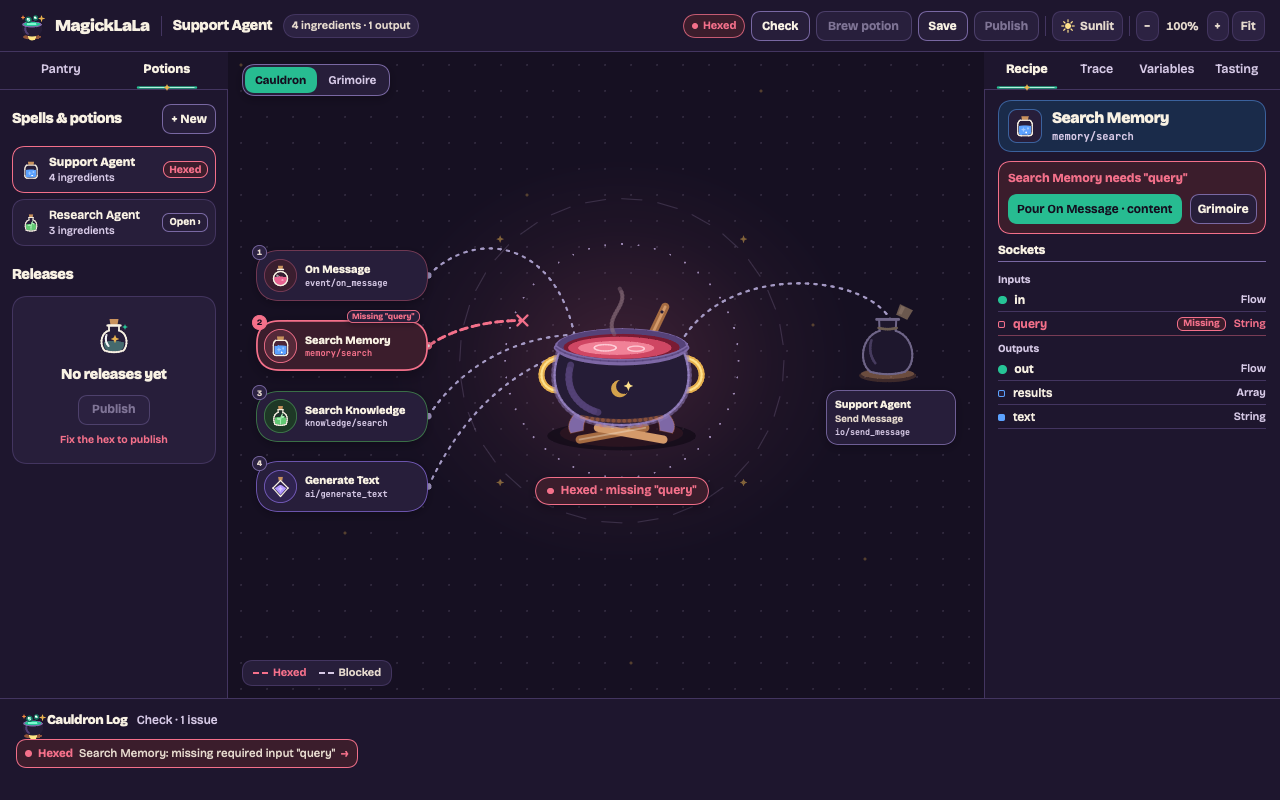
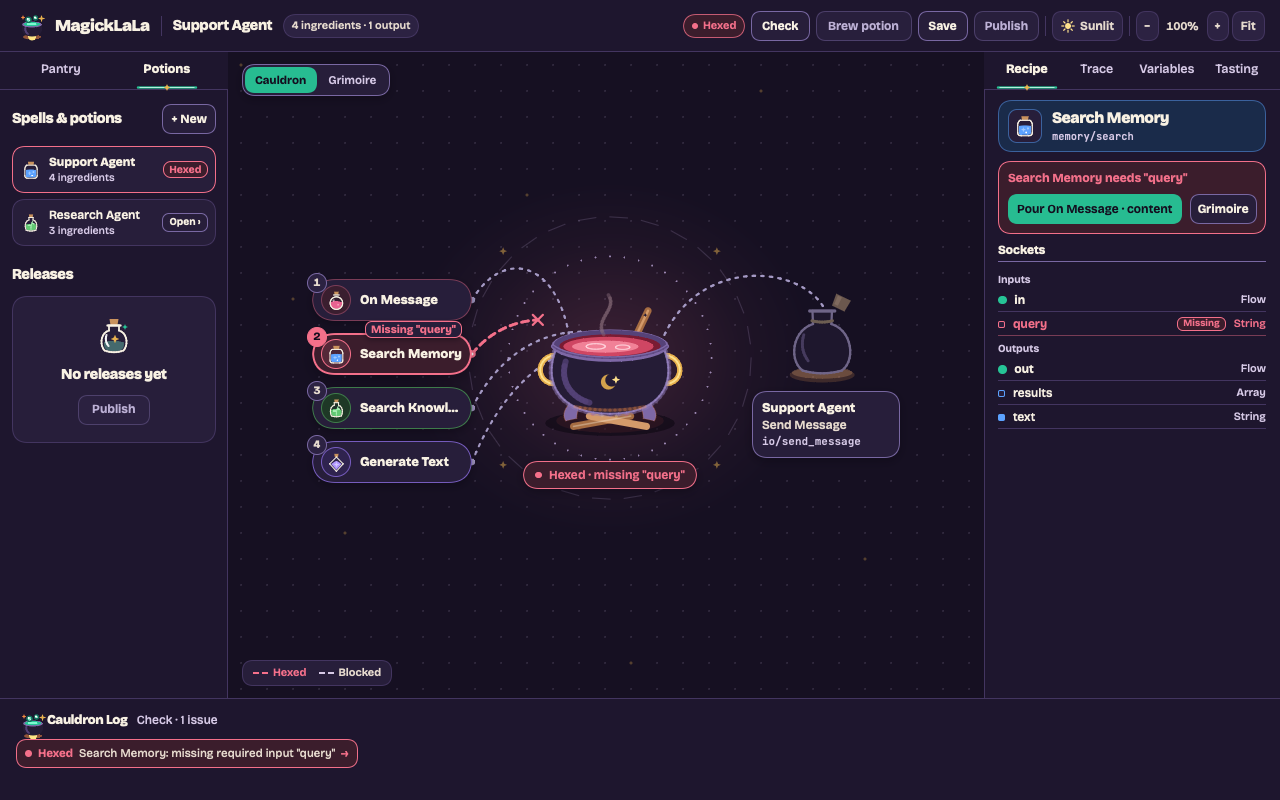
fix(studio): pantry footer counts only ingredients in the pot; docs/studio adds the dozen-ingredient 960x640 and set-aside screens and is regenerated from this head

diff --git a/crates/magicklala-studio/examples/studio_probe.rs b/crates/magicklala-studio/examples/studio_probe.rs
@@ -1485,6 +1485,15 @@ fn capture_surfaces(out_dir: &Path) -> Result<serde_json::Value, String> {
     branch_cauldron.canvas.fit(viewport);
     save("16-branching-cauldron-1280x800.png", branch_cauldron)?;
 
+    let mut crowded = StudioApp::with_spell(dozen_ingredient_spell(), registry_specs());
+    crowded.size = (960.0, 640.0);
+    save("17-dozen-ingredients-960x640.png", crowded)?;
+
+    let mut aside = base_desktop();
+    aside.toss(magicklala_canvas::Toss::Aside(NodeId::from("recall")));
+    aside.undo_banner = None;
+    save("18-set-aside-1280x800.png", aside)?;
+
     Ok(json!({ "surfaces": files }))
 }
 

diff --git a/crates/magicklala-studio/src/view.rs b/crates/magicklala-studio/src/view.rs
@@ -728,7 +728,7 @@ fn left_rail(app: &StudioApp, t: &HearthPalette) -> El {
                     })
                 })
             };
-            let in_pot_count = app.canvas.nodes.iter().filter(|card| card.kind != "io/send_message").count();
+            let in_pot_count = magicklala_canvas::brew_plan(&app.canvas, app.canvas_size()).with_role(magicklala_canvas::BrewRole::Ingredient).count();
             let footer_text = if !query.is_empty() {
                 let m_word = if filtered.len() == 1 { "match" } else { "matches" };
                 format!("{} {m_word} · {} in cauldron", filtered.len(), in_pot_count)

diff --git a/crates/magicklala-canvas/src/hearth.rs b/crates/magicklala-canvas/src/hearth.rs
@@ -1282,6 +1282,7 @@ pub fn distillation_point(from: [f32; 2], to: [f32; 2], t: f32) -> [f32; 2] {
     cubic_point(from, c1, c2, to, t)
 }
 
+#[allow(clippy::too_many_arguments)]
 pub fn distillation_ribbon_shape(
     mut shape: Shape,
     from: [f32; 2],
